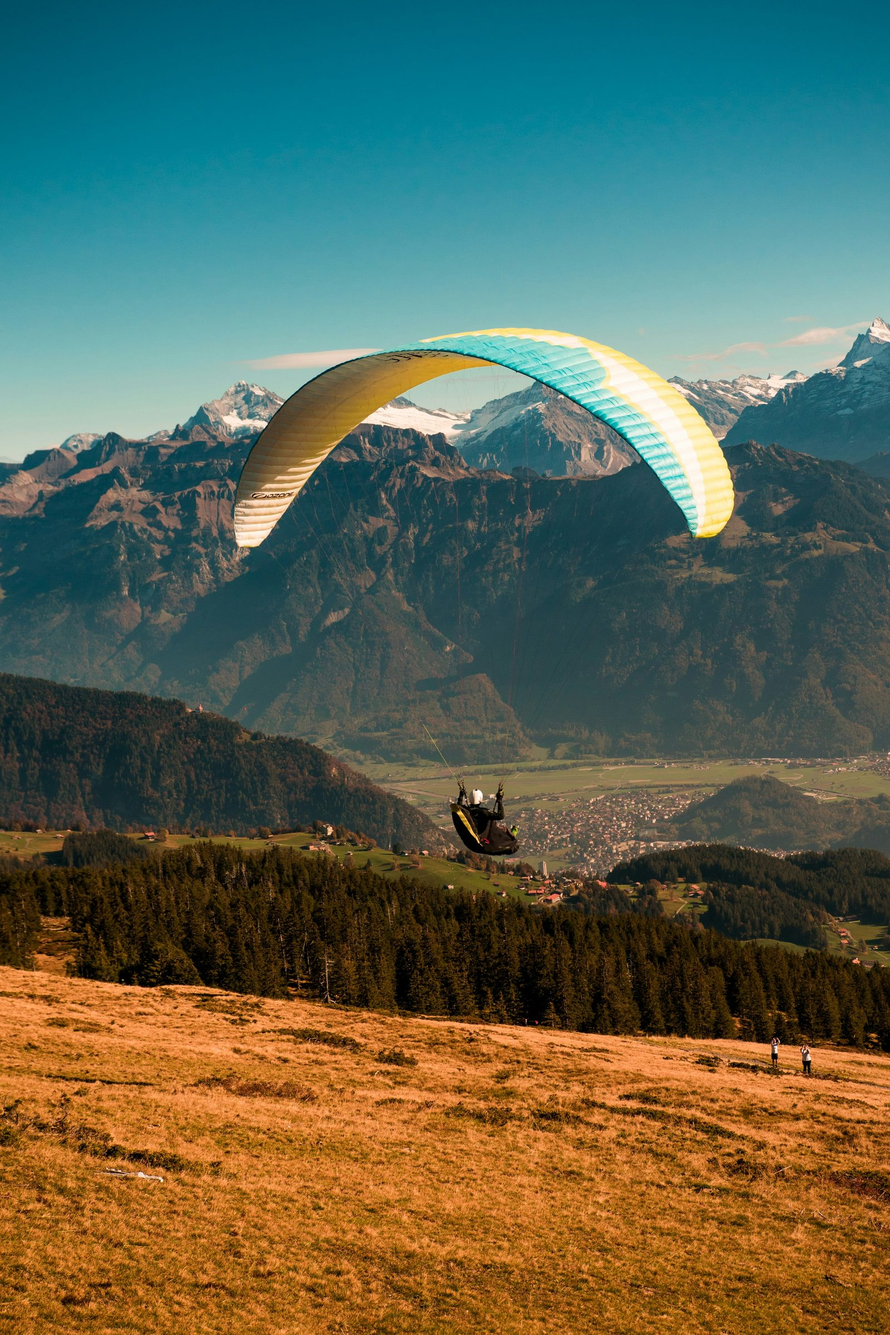
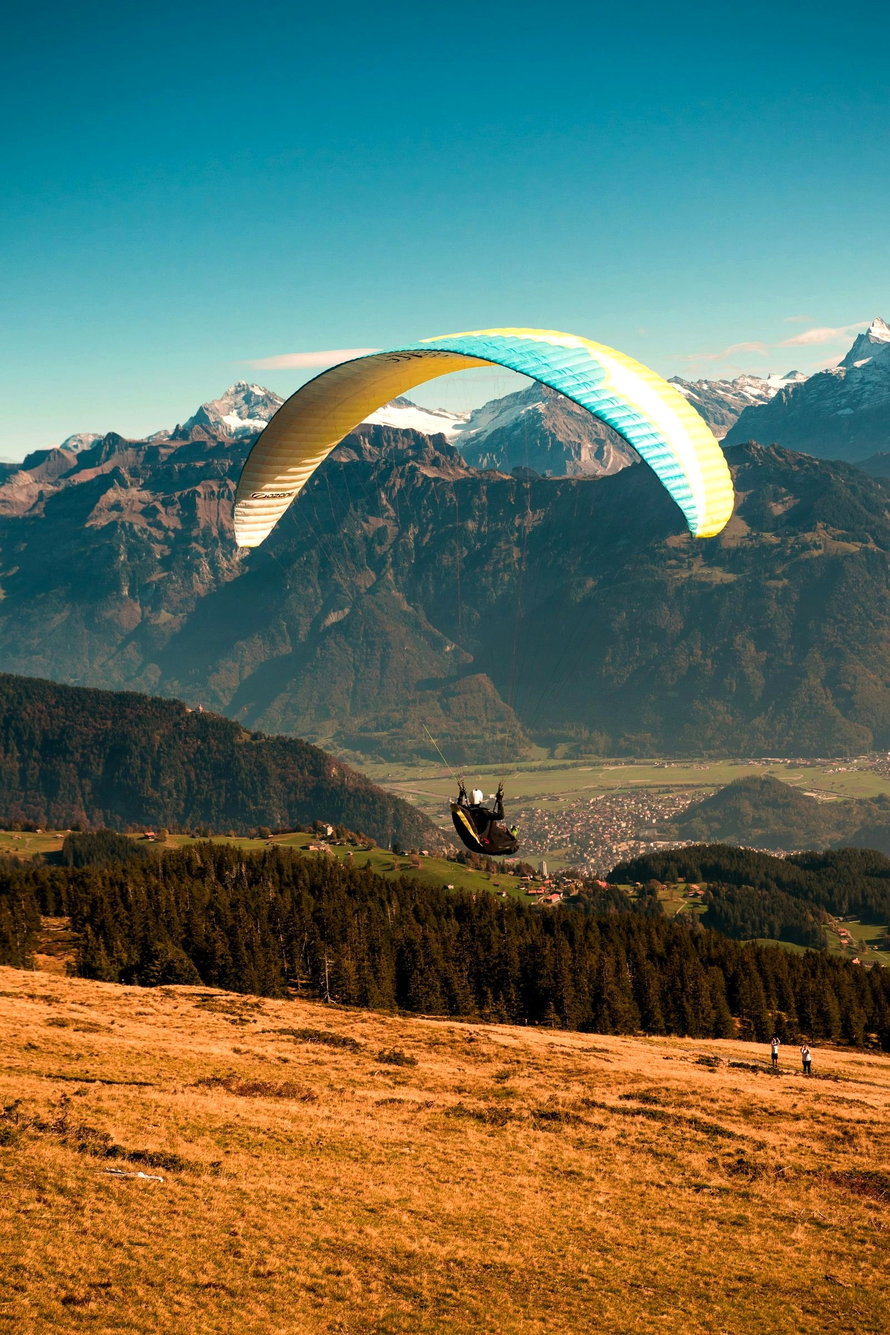
Brighten carousel photos by reducing dark overlay
Keep a light bottom scrim for text, lift image brightness slightly so Matthew’s shots match the originals.

diff --git a/src/components/SportsCarousel.tsx b/src/components/SportsCarousel.tsx
@@ -100,16 +100,20 @@ export default function SportsCarousel() {
               fill
               priority
               sizes="(max-width: 640px) 100vw, (max-width: 1280px) 100vw, 1440px"
-              className="object-cover"
+              className="object-cover brightness-[1.06] contrast-[1.04] saturate-[1.05]"
               style={{ objectPosition: sport.imagePosition ?? "50% 50%" }}
               draggable={false}
             />
-            <div className="absolute inset-0 bg-gradient-to-t from-ink via-ink/45 to-transparent" />
+            {/* Light bottom scrim only — keep photo tone close to the original */}
+            <div
+              className="pointer-events-none absolute inset-x-0 bottom-0 h-[42%] bg-gradient-to-t from-black/55 via-black/20 to-transparent"
+              aria-hidden
+            />
             <div className="absolute inset-x-0 bottom-0 p-6 sm:p-10 lg:p-12">
-              <h3 className="font-display text-3xl font-bold text-white sm:text-5xl lg:text-6xl">
+              <h3 className="font-display text-3xl font-bold text-white drop-shadow-[0_2px_8px_rgba(0,0,0,0.65)] sm:text-5xl lg:text-6xl">
                 {sport.name}
               </h3>
-              <p className="mt-3 max-w-3xl text-base leading-relaxed text-white/90 sm:mt-4 sm:text-lg lg:text-xl">
+              <p className="mt-3 max-w-3xl text-base leading-relaxed text-white drop-shadow-[0_1px_6px_rgba(0,0,0,0.7)] sm:mt-4 sm:text-lg lg:text-xl">
                 {sport.description}
               </p>
             </div>
